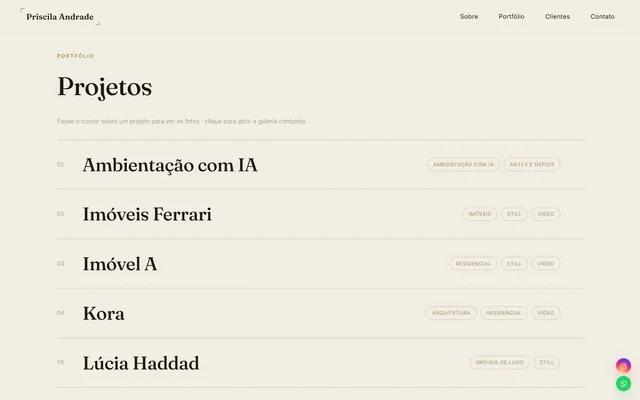
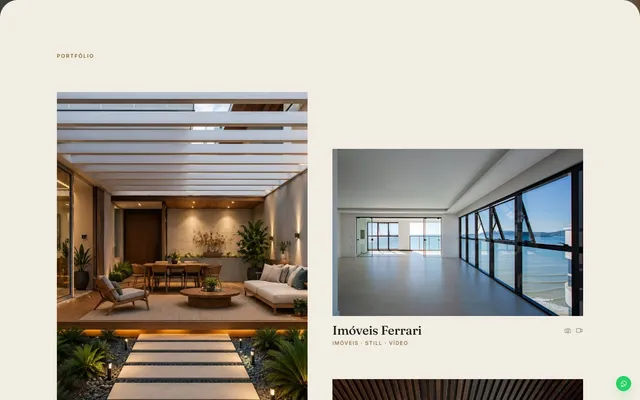
Projeto Priscila: prints do site novo (home, portfolio, clientes, celular), textos do bloco O site e hero sem marca d'agua

diff --git a/public/projetos/priscila-andrade-fotografia/site/index.html b/public/projetos/priscila-andrade-fotografia/site/index.html
@@ -50,8 +50,8 @@ html,body{margin:0;padding:0;background:#000;}
 </style>
 <div class="st-in">
   <span class="st-eyebrow">O site</span>
-  <h2 class="st-h">Portfólio, clientes e contato numa página só</h2>
-  <p class="st-p">Uma navegação simples, pensada para o corretor e a incorporadora chegarem ao trabalho em poucos cliques, no computador e no celular.</p>
+  <h2 class="st-h">Uma página que começa pela imagem</h2>
+  <p class="st-p">A foto ocupa a tela inteira e a rolagem conduz do trabalho à apresentação, ao portfólio e aos clientes, no computador e no celular.</p>
 
   <div class="st-stage">
     <div class="st-bw st-main">
@@ -64,22 +64,22 @@ html,body{margin:0;padding:0;background:#000;}
   <div class="st-row">
     <figure class="st-fig">
       <div class="st-bw"><div class="st-bar"><i></i><i></i><i></i></div><img src="d-portfolio.jpg" alt="Lista de projetos" loading="lazy" decoding="async"/></div>
-      <figcaption><b>Portfólio</b>Projetos numerados. Ao passar o cursor aparece a foto, e o clique abre a galeria completa.</figcaption>
+      <figcaption><b>Portfólio</b>Grade de fotos com o nome de cada projeto. O clique abre a galeria completa, com fotos e vídeo.</figcaption>
     </figure>
     <figure class="st-fig">
       <div class="st-bw"><div class="st-bar"><i></i><i></i><i></i></div><img src="d-clientes.jpg" alt="Clientes já atendidos" loading="lazy" decoding="async"/></div>
-      <figcaption><b>Clientes</b>Grade com as imobiliárias e marcas já atendidas, como prova social imediata.</figcaption>
+      <figcaption><b>Clientes</b>Logos das imobiliárias e marcas já atendidas, em ordem alfabética, como prova social imediata.</figcaption>
     </figure>
   </div>
 
   <div class="st-mob">
     <figure class="st-fig">
       <div class="st-phone"><img src="m-portfolio.jpg" alt="Portfólio no celular" loading="lazy" decoding="async"/></div>
-      <figcaption><b>No celular</b>Portfólio com a foto de cada projeto já à vista.</figcaption>
+      <figcaption><b>No celular</b>Cada projeto em tela cheia, com um deslize para o próximo.</figcaption>
     </figure>
     <figure class="st-fig">
       <div class="st-phone"><img src="m-clientes.jpg" alt="Clientes no celular" loading="lazy" decoding="async"/></div>
-      <figcaption><b>No celular</b>Clientes em duas colunas, leitura confortável.</figcaption>
+      <figcaption><b>No celular</b>Clientes em duas colunas, de leitura confortável.</figcaption>
     </figure>
   </div>
 </div>

diff --git a/public/projetos/priscila-andrade-fotografia/hero/index.html b/public/projetos/priscila-andrade-fotografia/hero/index.html
@@ -119,7 +119,6 @@ a{ color:inherit; text-decoration:none; }
     <img src="uploads/kora-01.jpg" alt="" class="hero-img" fetchpriority="high">
     <div class="hero-scrim"></div>
   </div>
-  <div class="hero-watermark" aria-hidden="true">Priscila</div>
   <div class="hero-content">
     <p class="hero-eyebrow reveal">Fotografia &amp; Vídeo · Imóveis e Arquitetura</p>
     <h1 class="hero-headline reveal">Contando a história dos espaços através da fotografia e do vídeo.</h1>
